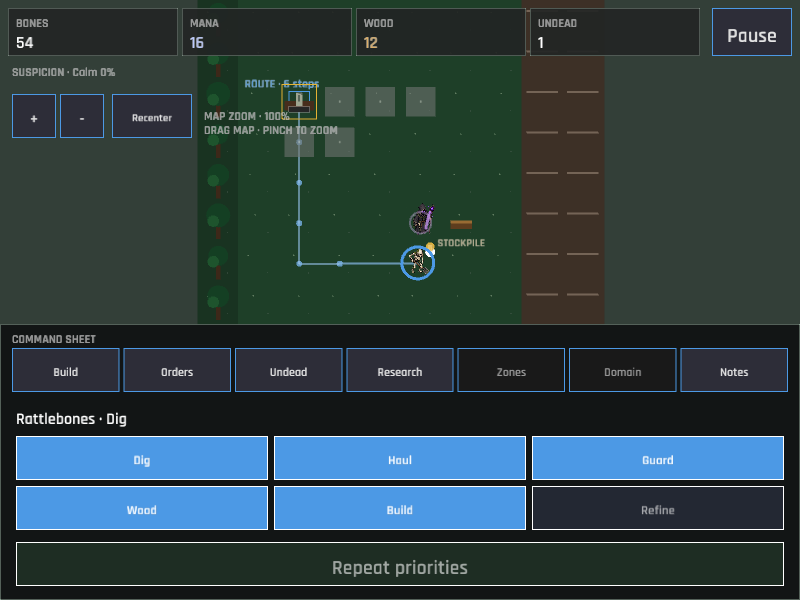
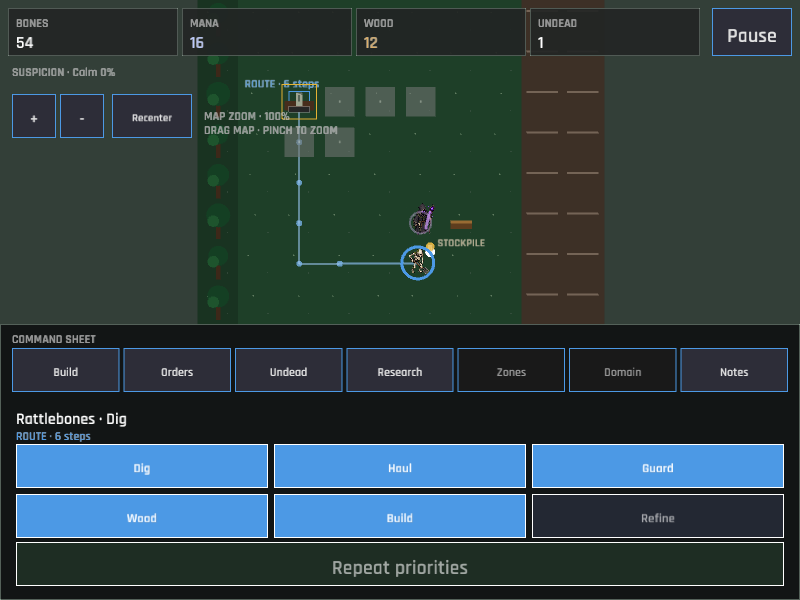
The bound worker can read its own road (compact route status)
Compact worker selection now places the live route summary above the touch job controls, including the explicit obstruction warning when no path exists. The walking-state verification capture confirms the added line fits without clipping the recovery controls.

Changed region(s): [[0.0, 0.72, 1.0, 0.9]]

diff --git a/src/ui/responsive/selection.rs b/src/ui/responsive/selection.rs
@@ -118,6 +118,22 @@ fn draw_worker(
         0.0,
         dark::TEXT_BRIGHT,
     );
+    if let Some(route_summary) = super::super::world_feedback::worker_route_summary(ctx, worker) {
+        draw_text_block(
+            &route_summary,
+            sheet.x + 16.0,
+            sheet.y + 104.0,
+            sheet.w - 32.0,
+            16.0,
+            11.0,
+            0.0,
+            if route_summary.starts_with("NO ROUTE") {
+                dark::WARNING
+            } else {
+                dark::ACCENT
+            },
+        );
+    }
     let jobs = [
         JobKind::Dig,
         JobKind::Haul,
@@ -131,7 +147,7 @@ fn draw_worker(
     for (job_index, job) in jobs.into_iter().enumerate() {
         let button = Rect::new(
             sheet.x + 16.0 + (job_index % 3) as f32 * (button_width + gap),
-            sheet.y + 112.0 + (job_index / 3) as f32 * 50.0,
+            sheet.y + 120.0 + (job_index / 3) as f32 * 50.0,
             button_width,
             44.0,
         );
